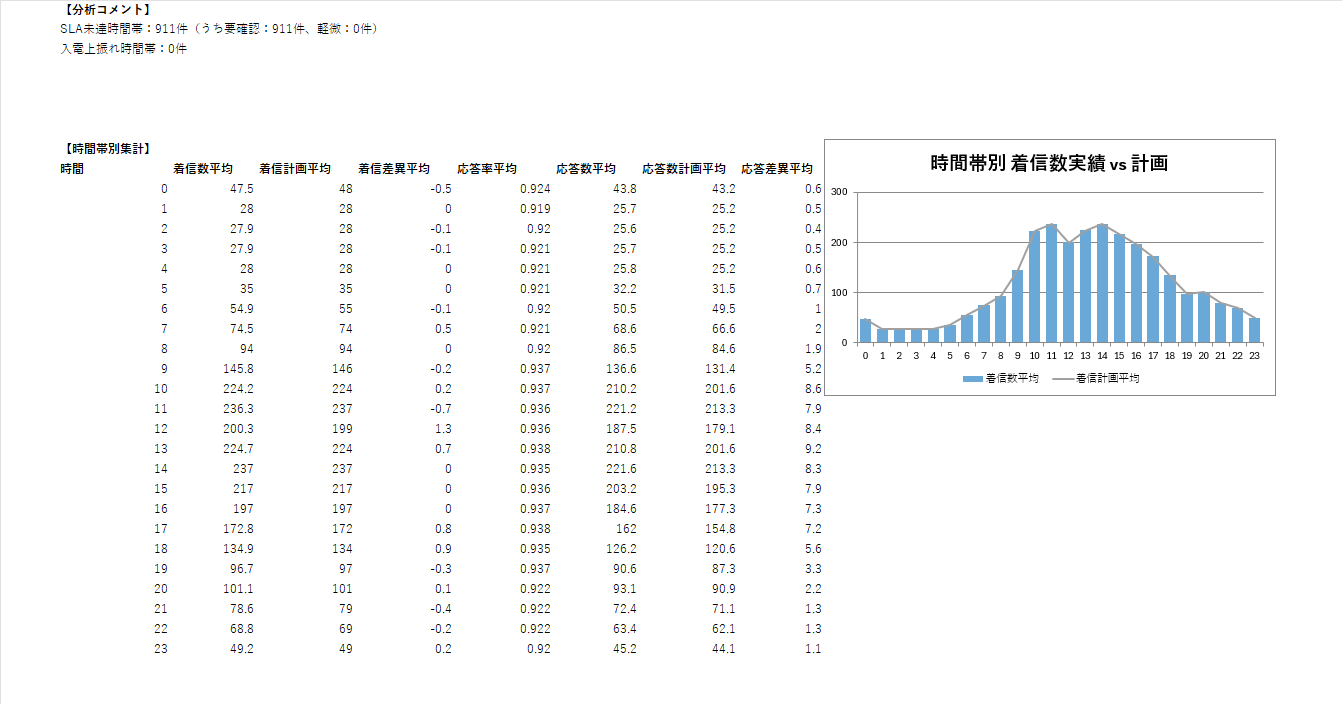
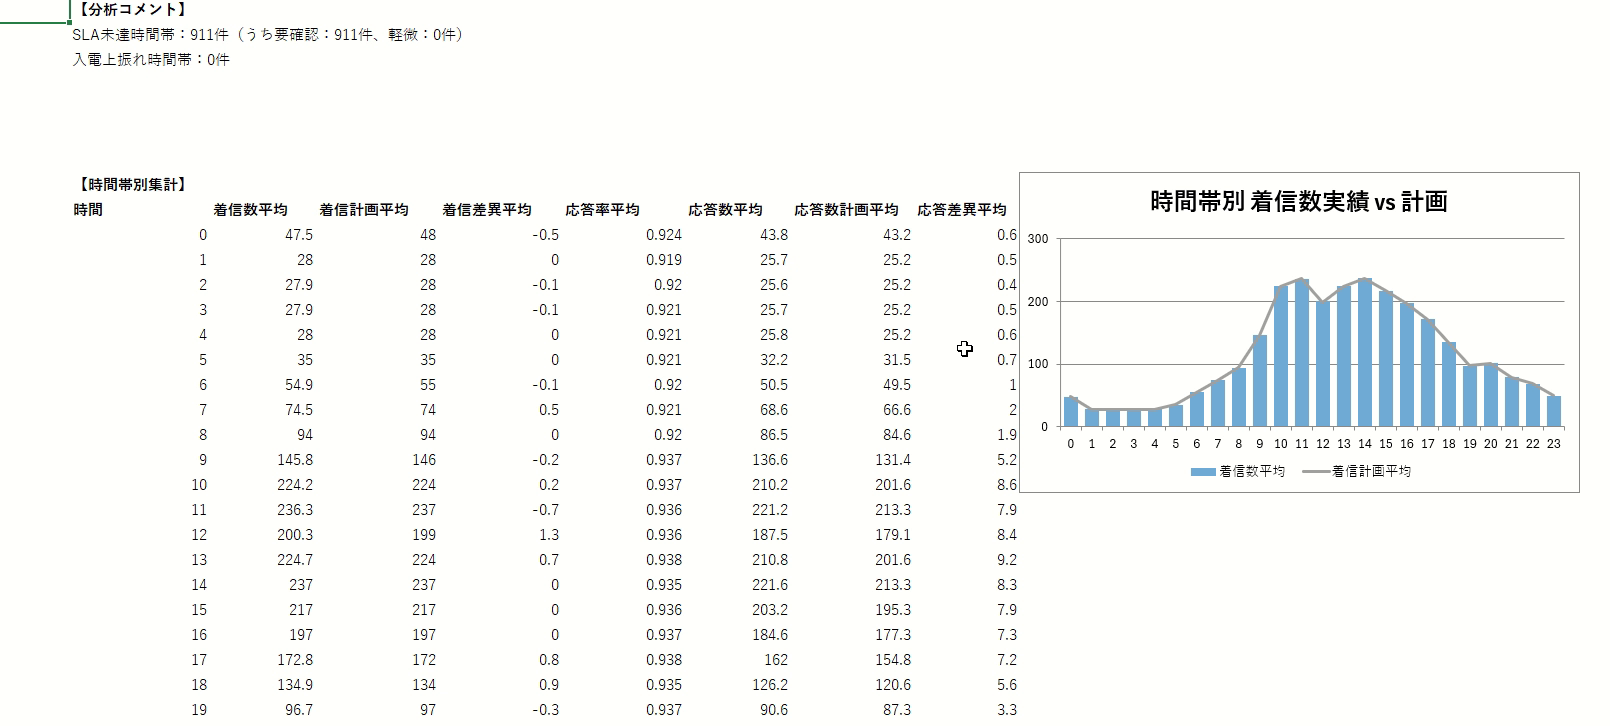
Add demo GIF and update Summary screenshot

diff --git a/README.md b/README.md
@@ -2,6 +2,7 @@
 
 クレジットカード会社のコールセンター業務を想定した、架空データによる日報集計・グラフ化の自動化ポートフォリオです。
 
+![ボタン1つで集計・グラフ・分析コメントまで自動作成](images/demo.gif)
 ![Summaryシートの例（分析コメント・時間帯別集計）](images/summary.png)
 
 ## 背景
@@ -26,6 +27,7 @@ callcenter-report-automation/
 │   ├── callcenter_report.csv          # 生成された日次・シフト別CSVデータ
 │   └── callcenter_hourly_report.csv   # 生成された時間帯別CSVデータ
 ├── images/
+│   ├── demo.gif                       # 操作デモ（GIF）
 │   └── summary.png                    # Summaryシートのスクリーンショット
 ├── callcenter-report-automation.xlsm  # 集計・グラフ化（Excel VBA）
 └── README.md
